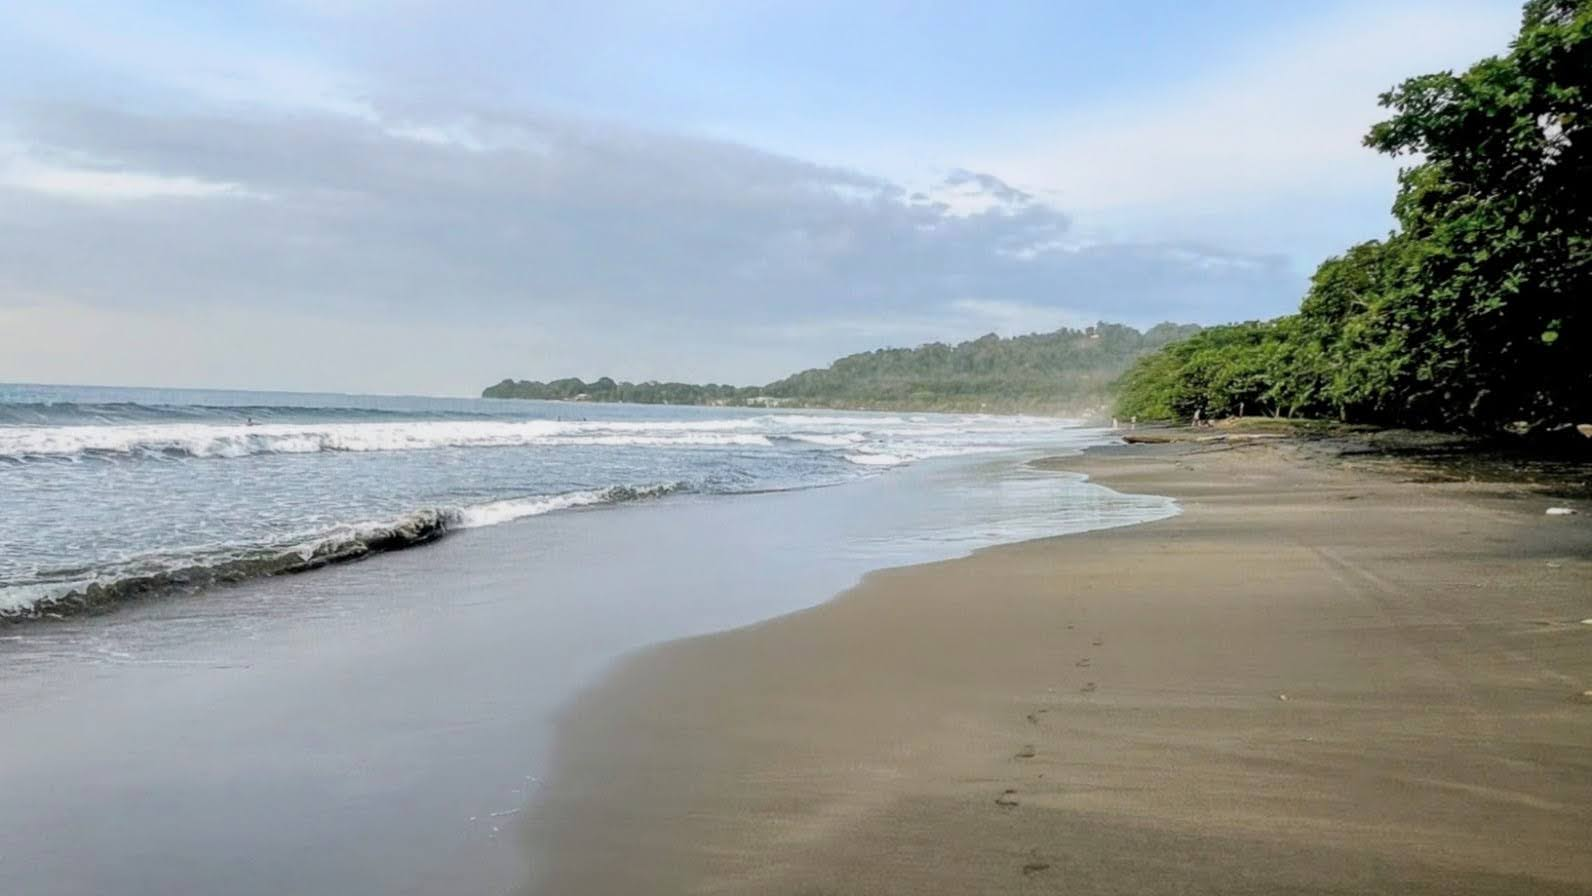
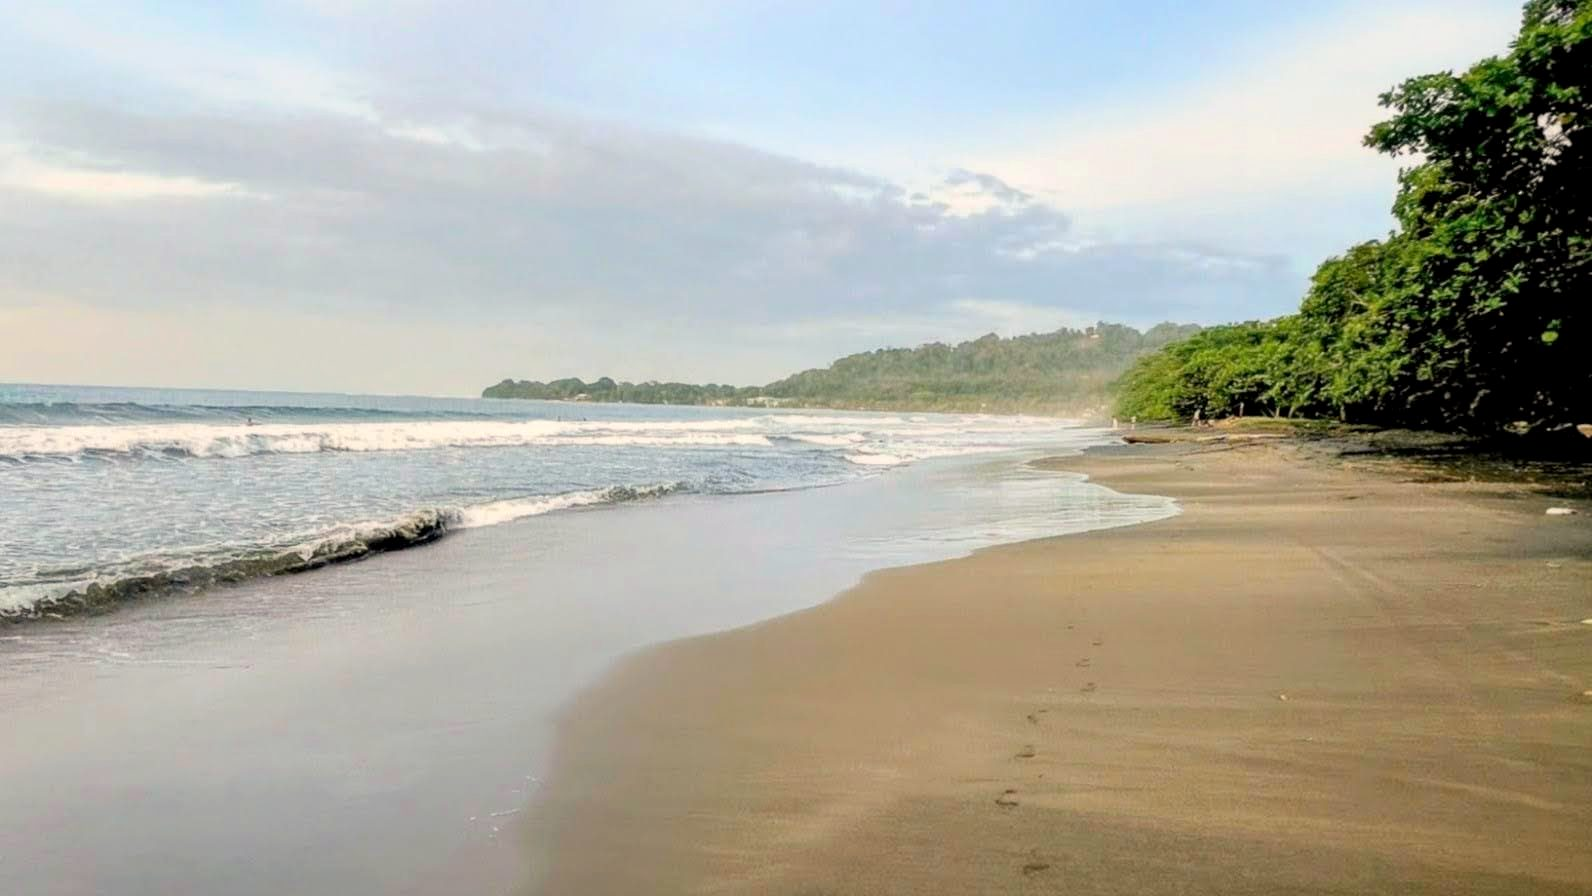
Portada: tarjeta de la oferta bajo la foto, «Cómo funciona» en tres pasos, foto de Playa Negra mejorada con encuadre de selva en el móvil y botón de propietarios solo con WA_OWNERS (revisión UX C1)

diff --git a/apps/web/app/page.tsx b/apps/web/app/page.tsx
@@ -6,6 +6,14 @@ import { SITE_DESCRIPTION, SITE_NAME, SITE_URL } from "@/lib/seo";
 import { appEnabled } from "@/lib/stage";
 
 // Portada de bnbtico.com hasta el lanzamiento. En pruebas y local redirige a la app; `?pronto=1` la fuerza para verla.
+// Revisión UX C1 (2026-10-27): tarjeta de la oferta bajo la foto, «Cómo funciona» en tres pasos y el botón de propietarios
+// solo cuando hay número de WhatsApp de bnbtico (`WA_OWNERS` en Vercel); sin él, «Abrimos pronto en el Caribe sur.».
+const OWNER_CTA_TEXT = "Hola, tengo una casa en el Caribe sur y quiero publicarla en bnbtico.";
+
+function ownerCtaUrl(): string | null {
+  const number = process.env.WA_OWNERS?.replace(/\D/g, "");
+  return number ? `https://wa.me/${number}?text=${encodeURIComponent(OWNER_CTA_TEXT)}` : null;
+}
 export default async function Portada({ searchParams }: { searchParams: Promise<{ pronto?: string }> }) {
   const { pronto } = await searchParams;
   if (appEnabled() && !pronto) redirect("/explorar");
@@ -16,6 +24,7 @@ export default async function Portada({ searchParams }: { searchParams: Promise<
       { "@type": "WebSite", "@id": `${SITE_URL}/#web`, name: SITE_NAME, url: SITE_URL, description: SITE_DESCRIPTION, inLanguage: "es-CR", publisher: { "@id": `${SITE_URL}/#org` } },
     ],
   };
+  const ownerCta = ownerCtaUrl();
   return (
     <>
       <main className="soon">
@@ -31,6 +40,19 @@ export default async function Portada({ searchParams }: { searchParams: Promise<
           <p className="soon-place">Playa Negra · Puerto Viejo de Talamanca</p>
         </div>
       </main>
+      <section className="soon-offer" aria-labelledby="oferta">
+        <h2 id="oferta">¿Tiene una casa en el Caribe?</h2>
+        <p>
+          <b>Las primeras 50 casas: 12 meses gratis.</b> Después, ₡9 900 al mes por casa, sin comisiones ni permanencia.
+        </p>
+        {ownerCta ? (
+          <a className="soon-cta" href={ownerCta} rel="noopener">
+            Quiero publicar mi casa gratis
+          </a>
+        ) : (
+          <p className="soon-later">Abrimos pronto en el Caribe sur.</p>
+        )}
+      </section>
       <section className="soon-more" aria-labelledby="que-es">
         <h2 id="que-es">Qué es bnbtico</h2>
         <p>
@@ -41,10 +63,17 @@ export default async function Portada({ searchParams }: { searchParams: Promise<
           En el Caribe sur de Limón: Puerto Viejo de Talamanca, Playa Negra, Cocles, Playa Chiquita, Punta Uva, Manzanillo y Cahuita. Casas frente al mar, en la selva o en el pueblo, para un fin de semana, unas vacaciones o una temporada completa.
         </p>
         <h2>Cómo funciona</h2>
-        <p>
-          Quien tiene una casa la publica con sus fotos, su precio en colones y su WhatsApp verificado; bnbtico la revisa antes de mostrarla. Quien busca, explora sin registrarse, guarda favoritos y contacta directo con un mensaje ya redactado con fechas y personas. El acuerdo es entre las dos personas; nosotros solo las ponemos en contacto.
-        </p>
-        <p className="small muted">¿Tiene una casa en el Caribe? Las primeras 50 casas publicadas tendrán 12 meses gratis.</p>
+        <ol className="soon-steps">
+          <li>
+            <b>El propietario publica</b> su casa con fotos, precio en colones y su WhatsApp verificado. bnbtico la revisa antes de mostrarla.
+          </li>
+          <li>
+            <b>Usted la encuentra</b> sin registrarse, guarda sus favoritas y le escribe con un mensaje ya redactado con fechas y personas.
+          </li>
+          <li>
+            <b>Acuerdan directo</b> por WhatsApp, sin intermediarios ni comisiones. Nosotros solo los ponemos en contacto.
+          </li>
+        </ol>
       </section>
       <script type="application/ld+json" dangerouslySetInnerHTML={{ __html: JSON.stringify(jsonLd) }} />
     </>

diff --git a/apps/web/app/globals.css b/apps/web/app/globals.css
@@ -233,7 +233,7 @@ select{font-weight:600;appearance:none;-webkit-appearance:none;background-image:
 /* ---------- Portada «Muy pronto» ---------- */
 .soon{position:relative;min-height:100dvh;display:grid;place-items:end center;padding:24px 20px calc(44px + env(safe-area-inset-bottom));overflow:hidden;color:#FFFBF2;background:#1C2B2A}
 .soon-bg{position:absolute;inset:0;z-index:0}
-.soon-bg img{object-fit:cover;object-position:74% 50%}
+.soon-bg img{object-fit:cover;object-position:85% 70%}
 .soon-shade{position:absolute;inset:0;background:linear-gradient(180deg,rgba(28,43,42,.10) 0%,rgba(28,43,42,.22) 40%,rgba(28,43,42,.70) 72%,rgba(28,43,42,.92) 100%)}
 .soon-card{position:relative;z-index:1;max-width:420px;width:100%;text-align:center;display:grid;gap:14px;justify-items:center}
 .soon-eyebrow{display:inline-flex;align-items:center;padding:6px 12px;border-radius:999px;background:var(--sun-soft);color:var(--sun-ink);font-size:12px;font-weight:700;letter-spacing:.04em;text-transform:uppercase}
@@ -244,4 +244,12 @@ select{font-weight:600;appearance:none;-webkit-appearance:none;background-image:
 .soon-more{max-width:560px;margin:0 auto;padding:36px 20px calc(40px + env(safe-area-inset-bottom));display:grid;gap:14px}
 .soon-more h2{font-size:22px;margin-top:8px}
 .soon-more p{line-height:1.55}
-@media (min-width:760px){.soon{place-items:center}.soon-shade{background:linear-gradient(180deg,rgba(28,43,42,.25),rgba(28,43,42,.55))}.soon-title{font-size:40px}}
+.soon-offer{max-width:560px;margin:24px auto 0;padding:20px;border-radius:24px;background:#FBE8C2;color:#1C2B2A;display:grid;gap:10px;width:calc(100% - 40px)}
+.soon-offer h2{font-size:22px}
+.soon-offer b{color:#7A4E07}
+.soon-later{font-weight:700;color:#7A4E07}
+.soon-cta{display:flex;align-items:center;justify-content:center;min-height:52px;padding:0 20px;border-radius:999px;background:#2F5D45;color:#FFFBF2;font-family:var(--display);font-weight:800;font-size:16px;text-decoration:none}
+.soon-steps{margin:0;padding-left:22px;display:grid;gap:10px}
+.soon-steps li{line-height:1.5}
+.soon-steps li::marker{font-family:var(--display);font-weight:800;color:#2F5D45}
+@media (min-width:760px){.soon-bg img{object-position:74% 50%}.soon{place-items:center}.soon-shade{background:linear-gradient(180deg,rgba(28,43,42,.25),rgba(28,43,42,.55))}.soon-title{font-size:40px}}
